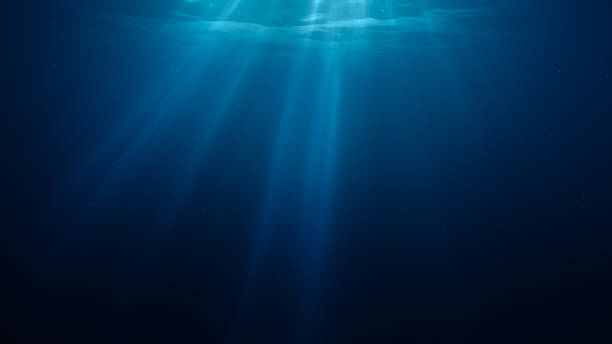
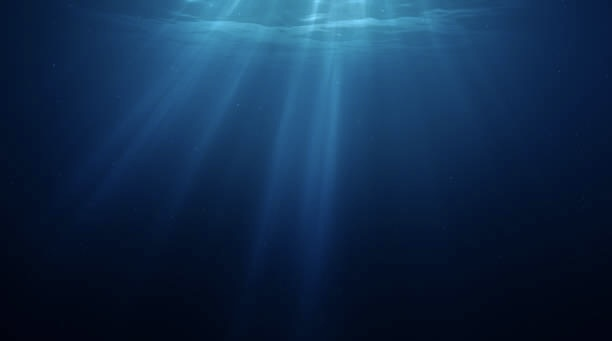
フッターを設定しました

Changed region(s): [[0.1863, 0.0, 0.8382, 0.5865]]

diff --git a/app/assets/stylesheets/application.css b/app/assets/stylesheets/application.css
@@ -17,6 +17,12 @@
   background-position: center;
 }
 
+.footer_image {
+  background-image: url("footer.jpeg");
+  background-size: cover;
+  background-position: center;
+}
+
 .header {
   background-color: rgba(0, 0, 0, 0);
   position: fixed;

diff --git a/config/routes.rb b/config/routes.rb
@@ -1,5 +1,7 @@
 Rails.application.routes.draw do
   root 'tops#index'
+  get 'privacy_policy', to: 'tops#privacy_policy'
+  get 'terms_of_service', to: 'tops#terms_of_service'
   resources :devil_fruits, only: %i[index] do
     collection do
       get 'crush'

diff --git a/app/controllers/tops_controller.rb b/app/controllers/tops_controller.rb
@@ -1,3 +1,7 @@
 class TopsController < ApplicationController
   def index; end
+
+  def privacy_policy; end
+
+  def terms_of_service; end
 end
